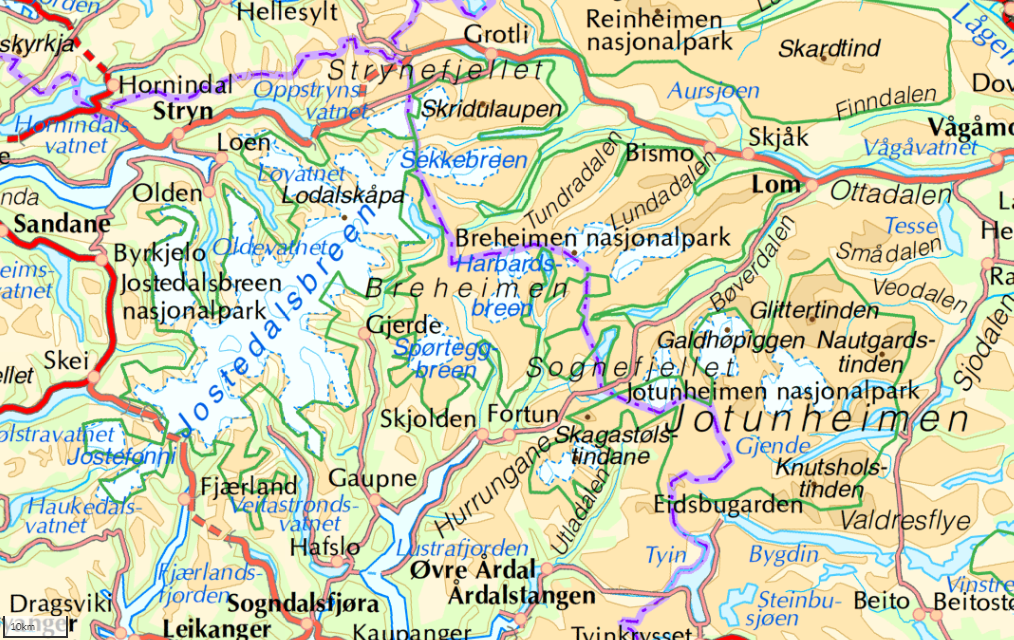
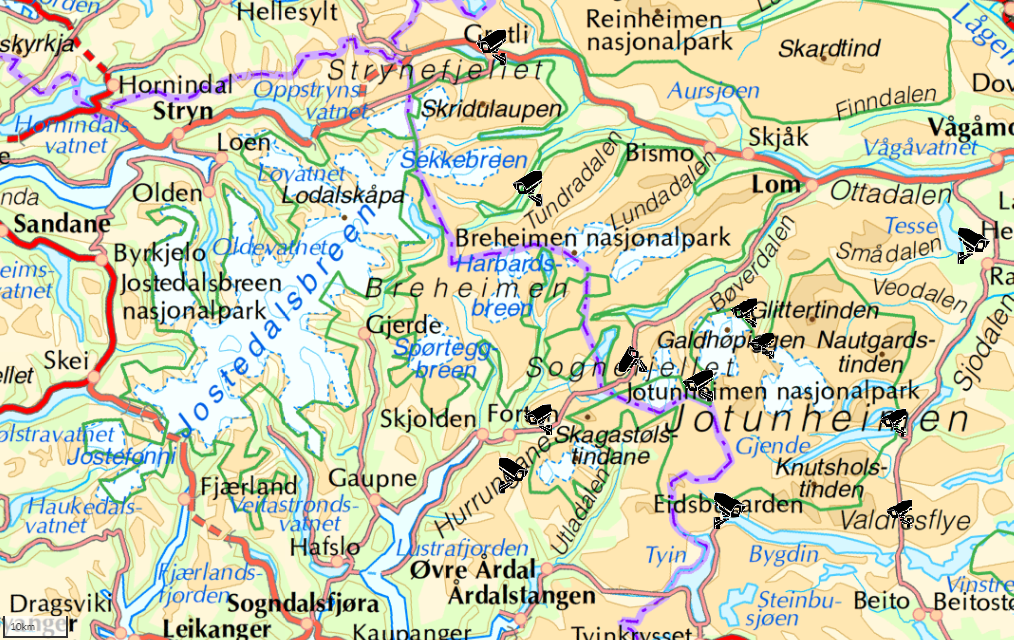
Jotunheimen

diff --git a/fjellforhold/index.html b/fjellforhold/index.html
@@ -233,7 +233,37 @@
 		etterfulgt av turen til Glittertinden fra Spiterstulen eller fra Glitterheim.Gode startstederer Gjendesheim, Fondsbu, Hjelle i Utladalen, 
 		Sognefjellet, Leirvassbu, Spiterstulen og Juvasshytta. <a href="https://ut.no/omrade/1231/jotunheimen">ut.no sine turforslag i området</a>
 		</p>
-		<center><img src=Jotunheimen.PNG style="width:1000px;height:500px;"></center
+		<center><img src=Jotunheimen.PNG style="width:1000px;height:500px;"></center>
+		<div>
+			<h4>Valdresflye</h4>
+        <a href="https://www.vegvesen.no/Trafikkinformasjon/Reiseinformasjon/Trafikkmeldinger/Webkamera?kamera=2072869&zoom=7"><img src="https://www.vegvesen.no/public/webkamera/kamera?id=2072869"class=webcam></a>
+			<h4>Gjendesheim</h4>
+        <a href="https://www.vaga.kommune.no/sjolvbetening/webkamera/"><img src="https://webfile.regiondata.no/vaga/webcam/gjende.jpg" class=webcam></a>
+			<h4>Lemonsjøen</h4>
+		<a href="https://webfile.regiondata.no/vaga/webcam/lemon.jpg"><img src="https://webfile.regiondata.no/vaga/webcam/lemon.jpg" class=webcam></a>
+			<h4>Eidsbugarden</h4>
+		<a href="https://jvb.no/nb/webkamera-eidsbugarden/"><img src="https://www.kvame.no/eidsbugarden/eidsbugarden.jpg" class=webcam></a>
+			<h4>Spiterstulen</h4>
+		<a href="https://www.spiterstulen.no/weather/video.jpg"><img src="https://www.spiterstulen.no/weather/video.jpg" class=webcam></a>
+			<h4>Galdhøpiggen skisenter</h4>
+		<a href="https://gpss.no/foto/image.jpg"><img src="https://gpss.no/foto/image.jpg" class=webcam></a>
+			<h4>Leirvassbu</h4>
+		<a href="http://kamera.leirvassbu.no/bilde/bilde.jpg"><img src="http://kamera.leirvassbu.no/bilde/bilde.jpg" class=webcam></a>
+			<h4>Sognefjellshytta</h4>
+		<a href="http://www.skjolden.com/sommarski/"><img src="http://www.vegvesen.no/public/webkamera/kamera?id=1608508" class=webcam></a>
+			<h4>Turtagrø</h4>
+		<a href="https://www.mkit.no/images/image_00001.jpg"><img src="https://www.mkit.no/images/image_00001.jpg" class=webcam></a>
+			<h4>Grotli ++</h4>
+		<a href="https://www.skjaakhytteservice.no/webkamera-grotli/"><img src="https://skjaakhytteservice.no/webcam/webcam000M.jpg" class=webcam>
+		<img src="https://skjaakhytteservice.no/webcam/webcam3000M.jpg" class=webcam></a>
+			<h4>Sota sæter</h4>
+		<a href="http://sota.no/kamera/sota1000M.jpg?fbclid=IwAR08a2njDK9LMLg9ktDwuVAzLExPJ6yFmbx-7uPP34-gXLgaz8SliEjR1A0"><img src="http://sota.no/kamera/sota1000M.jpg?fbclid=IwAR08a2njDK9LMLg9ktDwuVAzLExPJ6yFmbx-7uPP34-gXLgaz8SliEjR1A0" class=webcam></a>
+			<h4>Vågå</h4>
+		<a href="http://lalm.holmen.no/"><img src="http://lalm.holmen.no/image.php?id=33678" class=webcam></a>
+			<h4>Tindevegen<h4>
+		<a href="https://www.tindevegen.no/webkamera-vaer"><img src="https://netopp.org/fjellvegen/picture3.jpg?1592868143343" class=webcam></a>
+
+
 	</section>
 	<section>
 			<a name="Romsdalen"><h3 class="AOI">Romsdalen</h3></a>
